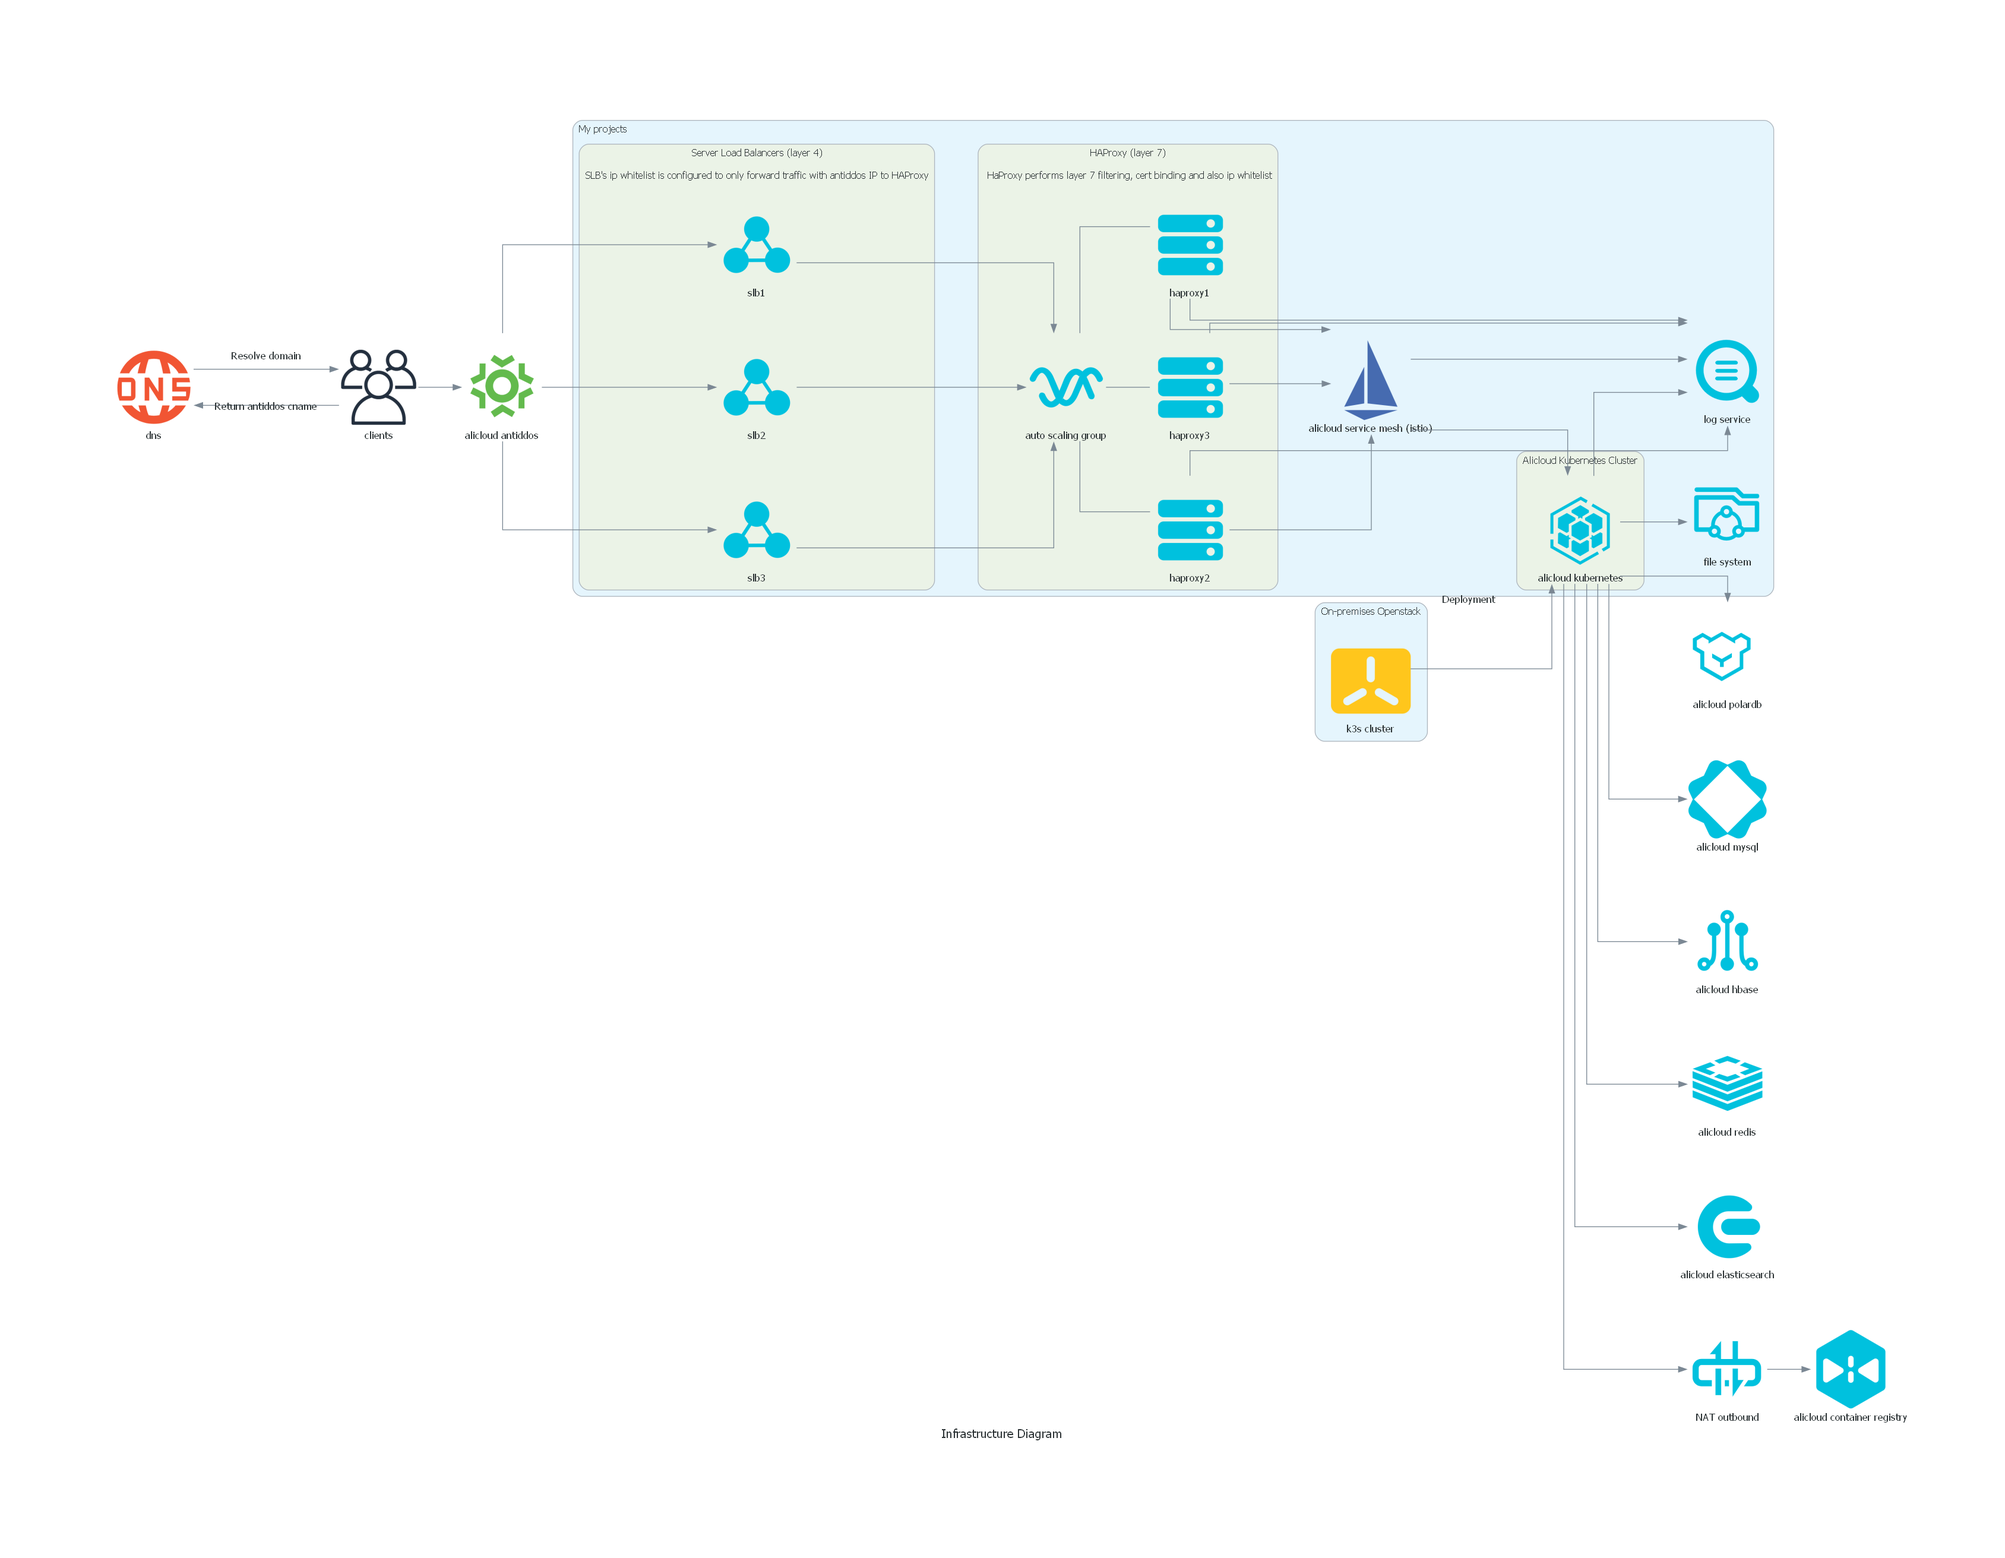
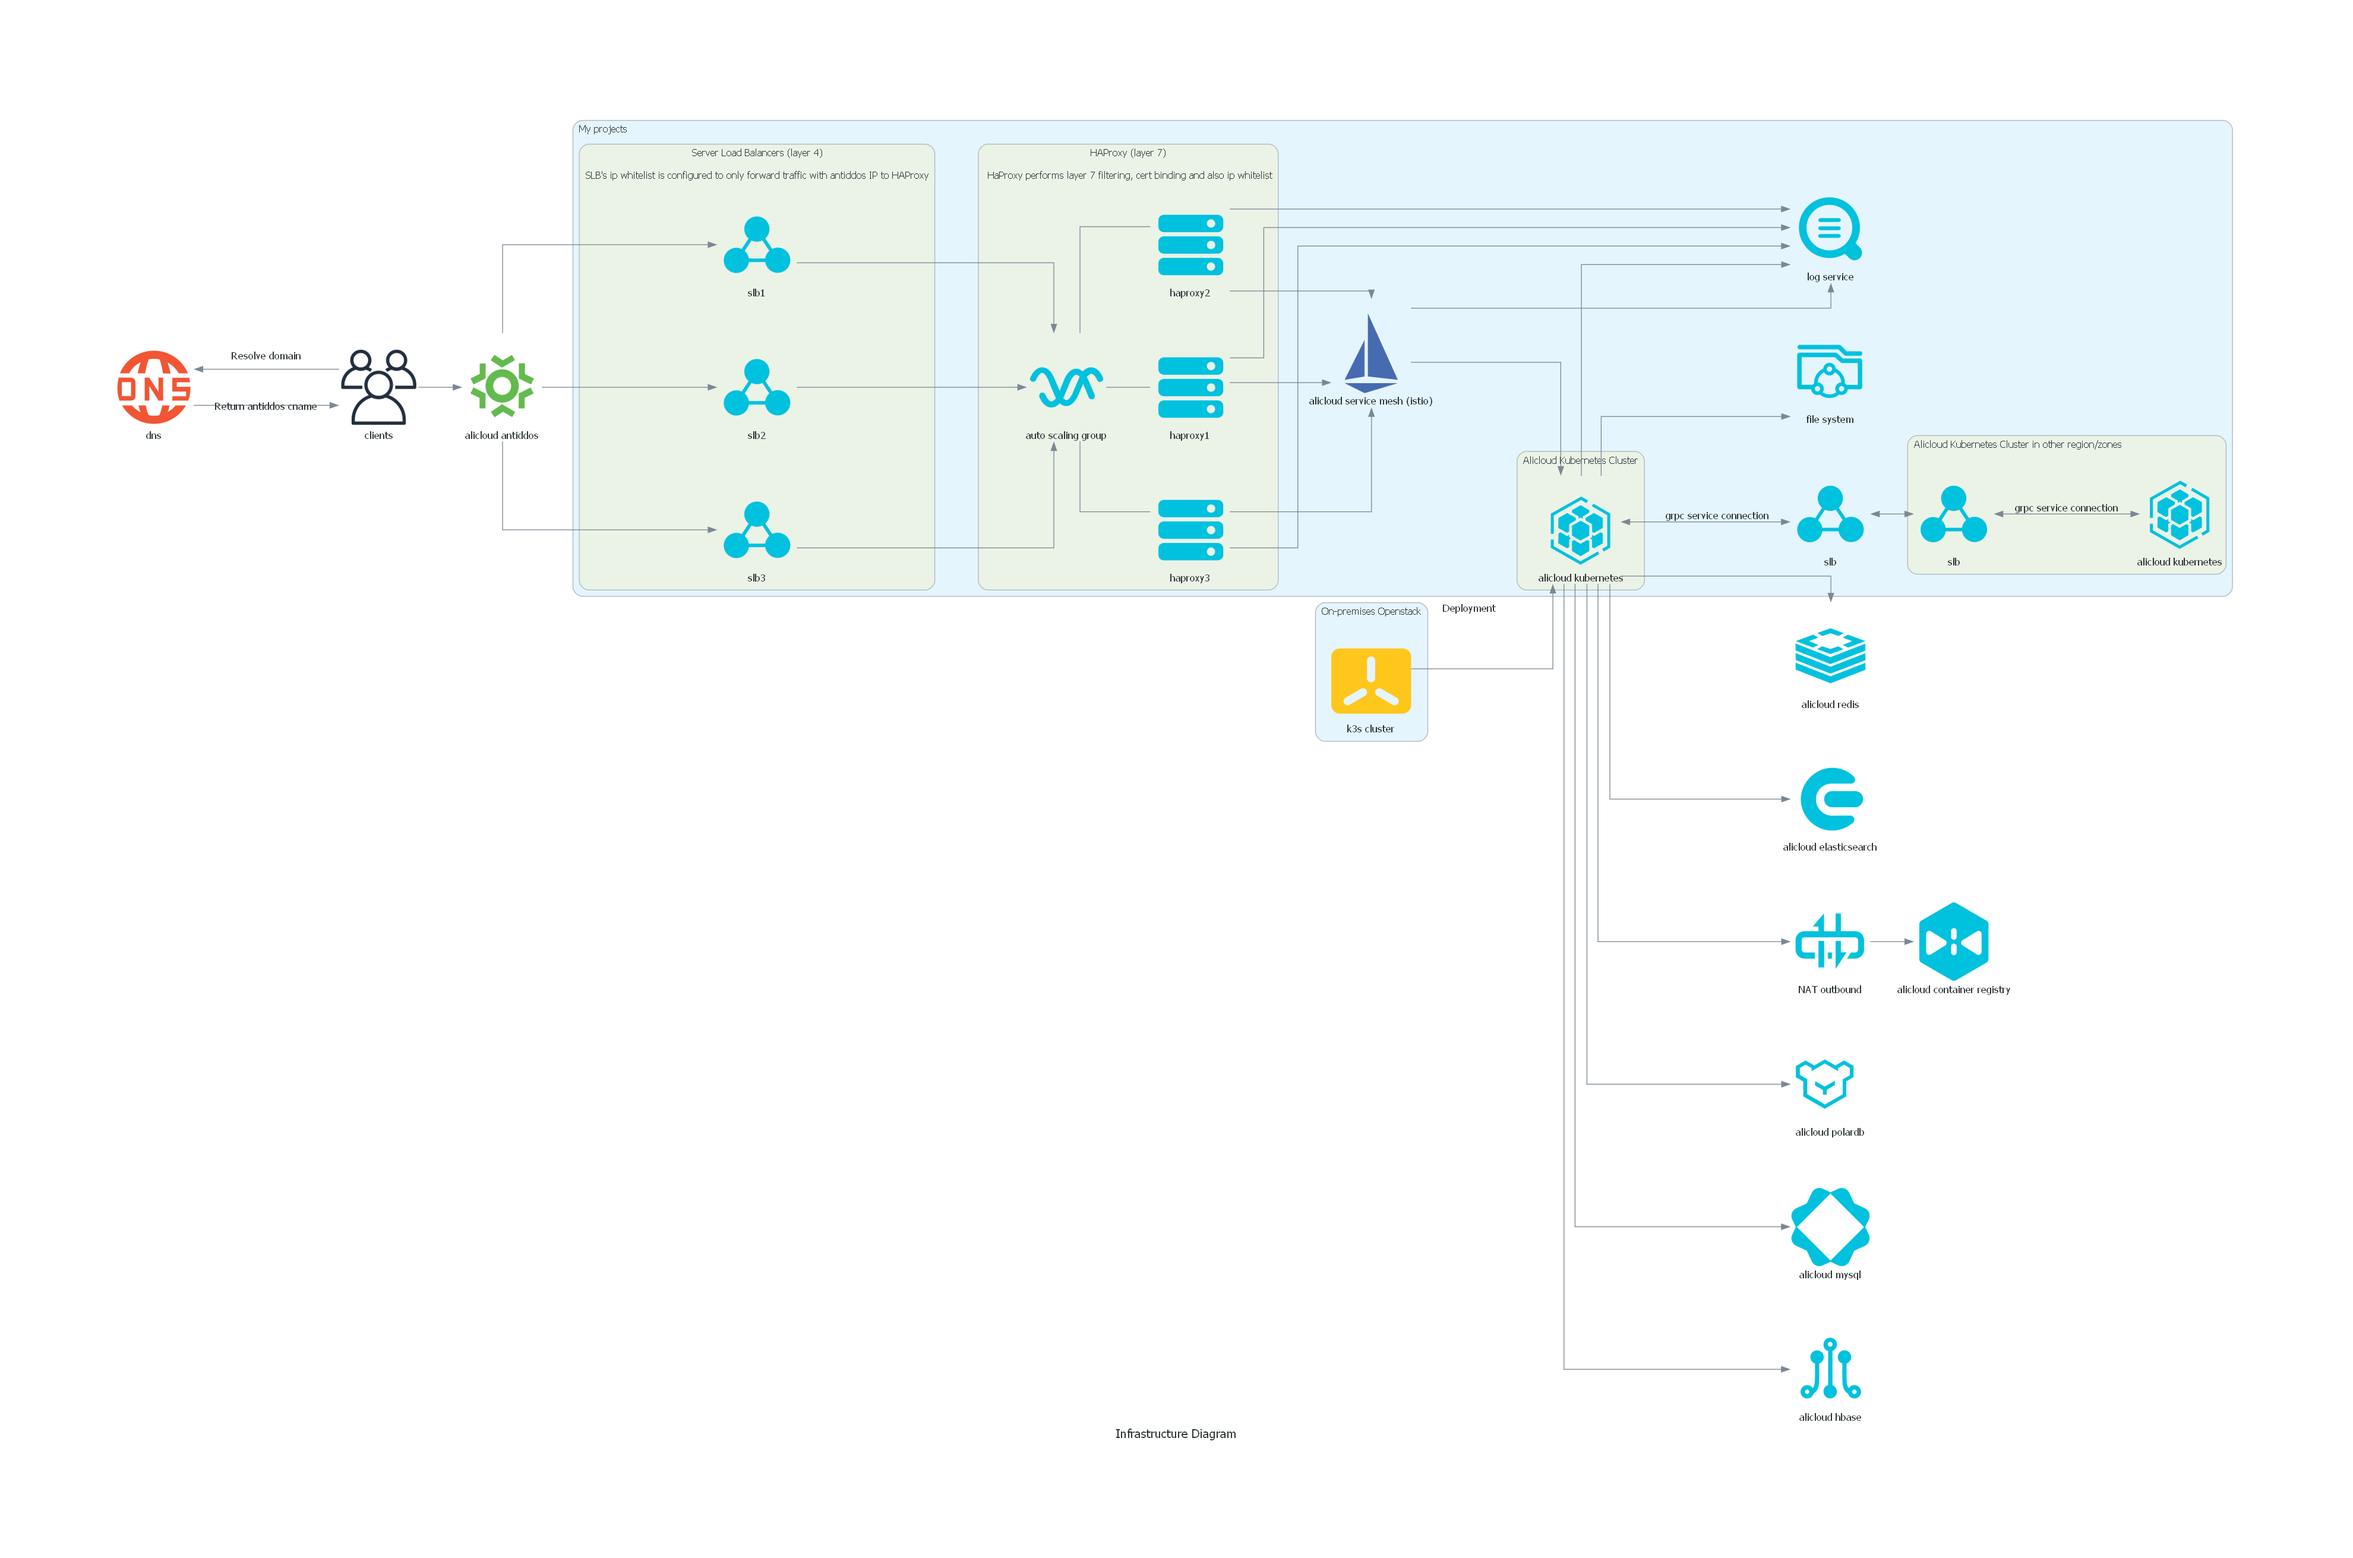
update diagram

diff --git a/part 2/diagram.py b/part 2/diagram.py
@@ -37,7 +37,7 @@ with Diagram("Infrastructure Diagram", graph_attr=graph_attr, show=False):
     services = [ApsaradbPolardb("alicloud polardb"), 
                 AnalyticDb("alicloud mysql"), ApsaradbHbase("alicloud hbase"), 
                 ApsaradbRedis("alicloud redis"), ElasticSearch("alicloud elasticsearch")]
-    
+
     with Cluster("On-premises Openstack"):
         k3s = K3S("k3s cluster")
 
@@ -45,6 +45,12 @@ with Diagram("Infrastructure Diagram", graph_attr=graph_attr, show=False):
         asm = Istio("alicloud service mesh (istio)")
         sls = SLS("log service")
         nas = NAS("file system")
+        lb = SLB("slb")
+
+        with Cluster("Alicloud Kubernetes Cluster in other region/zones"):
+            other_lb = SLB("slb")
+            other_ack = ContainerService("alicloud kubernetes")
+        
         with Cluster("Server Load Balancers (layer 4)\n\nSLB's ip whitelist is configured to only forward traffic with antiddos IP to HAProxy"):
             slb = [SLB("slb1"), SLB("slb2"), SLB("slb3")]
 
@@ -68,6 +74,7 @@ with Diagram("Infrastructure Diagram", graph_attr=graph_attr, show=False):
     ack >> nas
     for svc in services:
         ack >> svc
+    ack << Edge(label="grpc service connection") >> lb << Edge(label="") >> other_lb << Edge(label="grpc service connection") >> other_ack
 
 with Diagram("k8s diagram", show=False, graph_attr=edge_attr):
 
